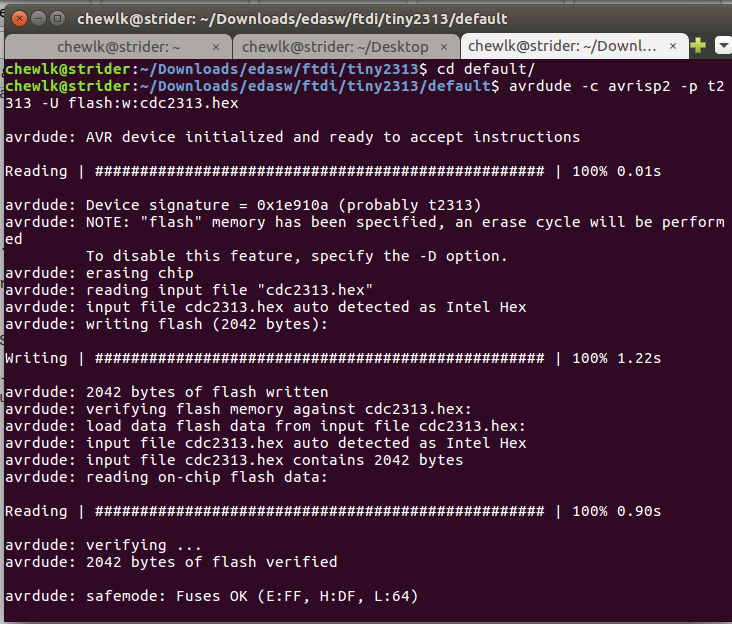
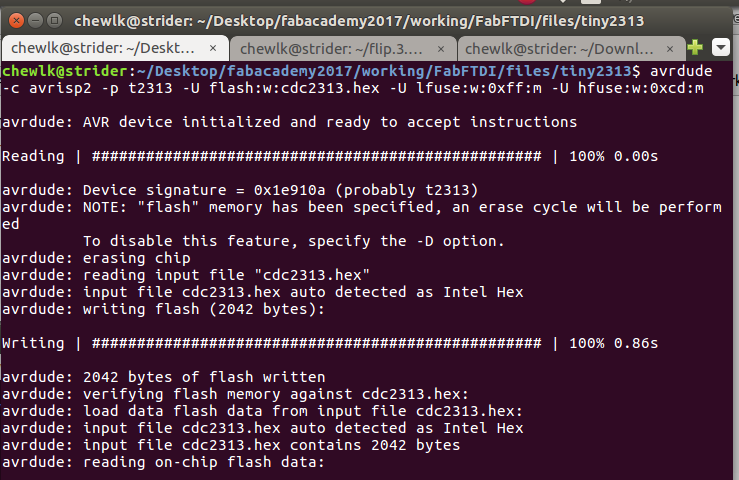
Fixed avrdude error

diff --git a/fabftdi-tiny2313.md b/fabftdi-tiny2313.md
@@ -41,7 +41,7 @@ Download the [FabFTDI-t2313 firmware](files/tiny2313/cdc2313.hex).
 
 Flash the firmware onto the FabFTDI-t2313 board using avrdude:
 
-`avrdude -c usbtiny -p t2313 -U flash:w:cdctiny2313.hex -U lfuse:w:0xff:m -U hfuse:w:0xcd:m`
+`avrdude -c usbtiny -p t2313 -U flash:w:cdc2313.hex -U lfuse:w:0xff:m -U hfuse:w:0xcd:m`
 
 ![Flashing the firmware](images/fabftdi-t2313_05.png)
 
